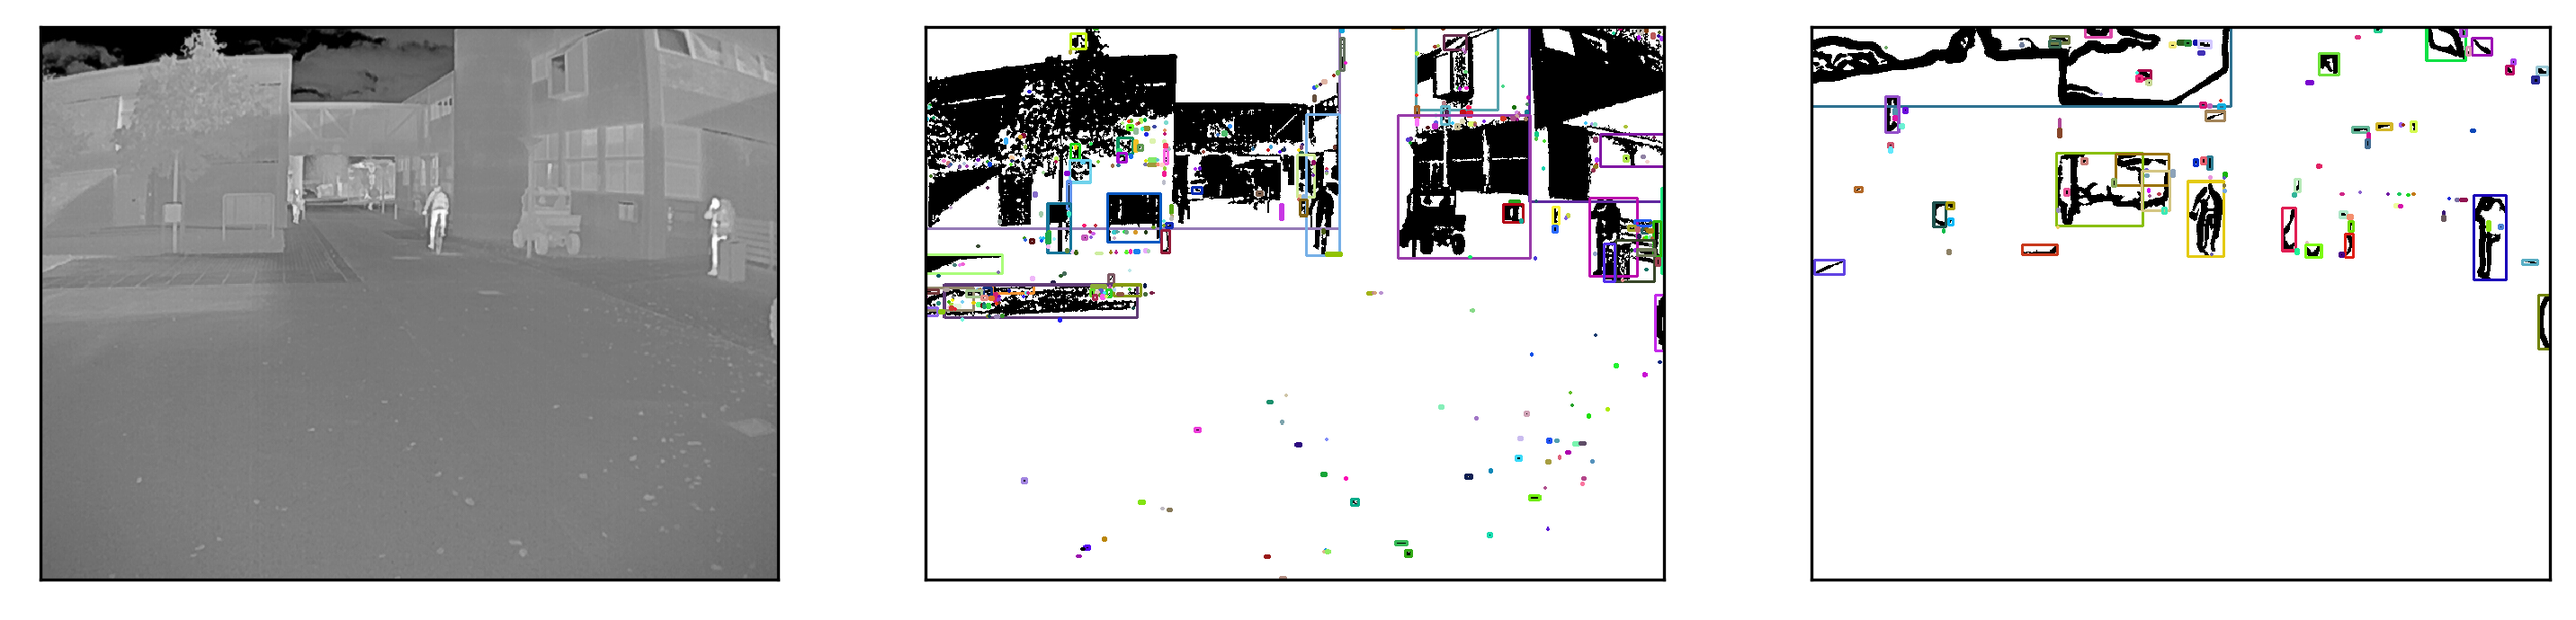
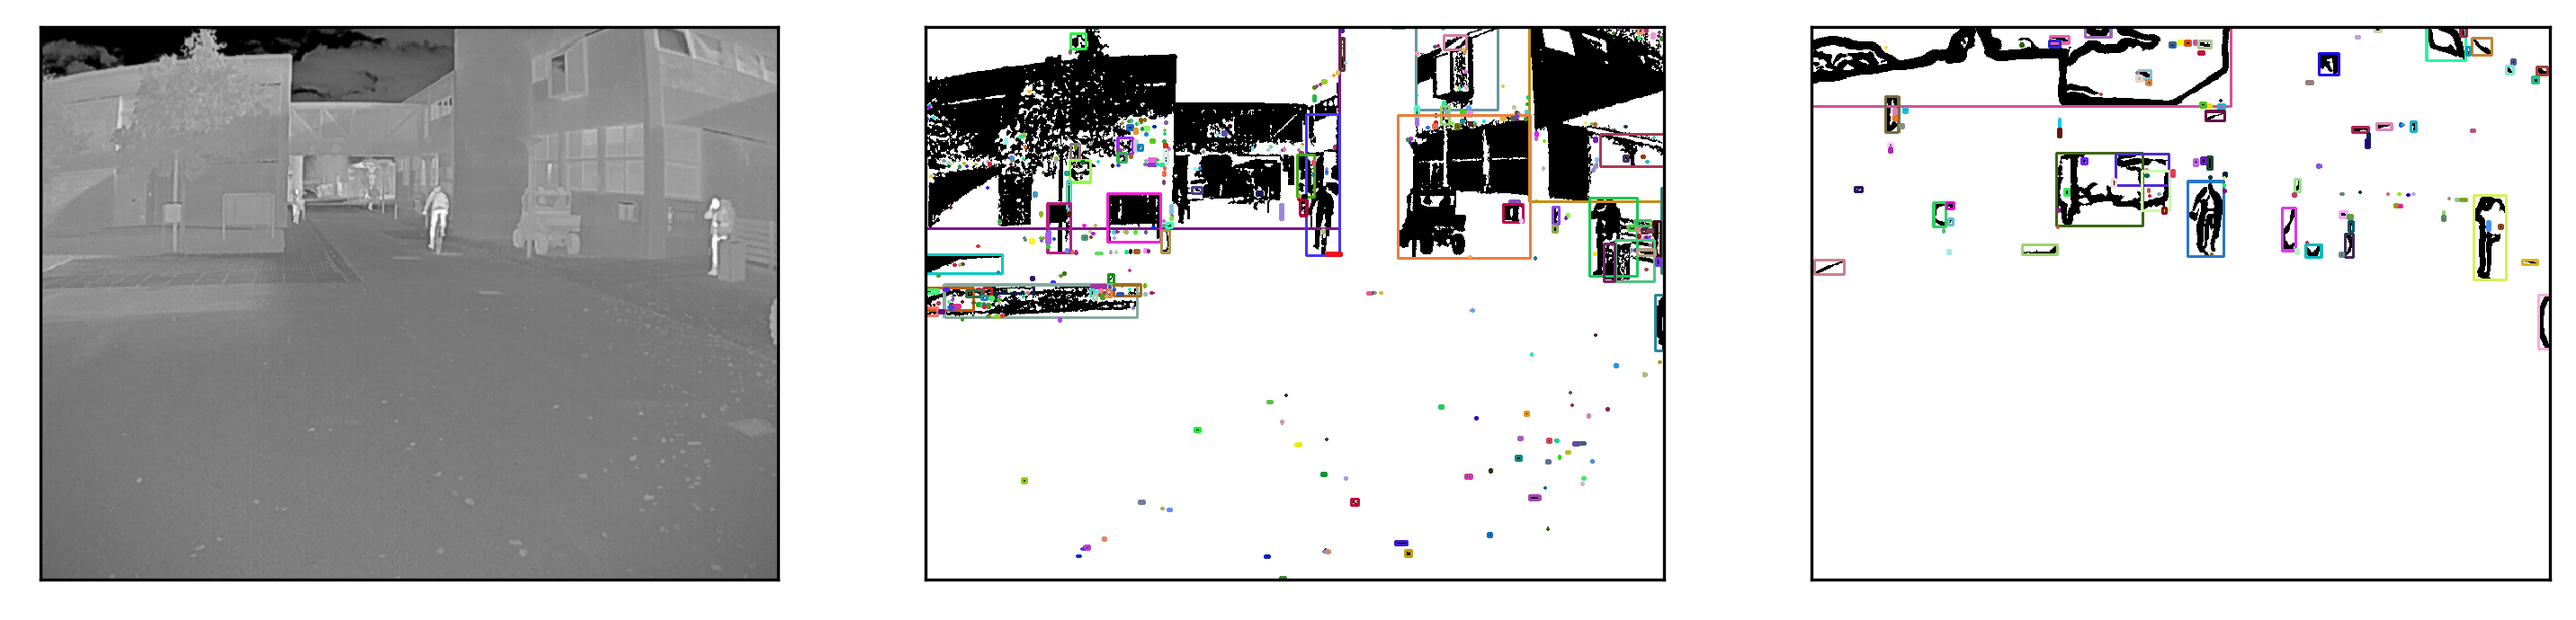
fixed confidence map errors & generate plots for illustration

diff --git a/catkin_ws/src/persondetection/include/utils/img_utils.py b/catkin_ws/src/persondetection/include/utils/img_utils.py
@@ -4,53 +4,64 @@ import cv2
 import numpy as np
 
 colors = {
-            'white':(255, 255, 255),
-            'black':(0,0,0),
-            'green':(0, 255, 0),
-            'blue':(0,255,255)
+		'white':(255, 255, 255),
+		'black':(0,0,0),
+		'green':(0, 255, 0),
+		'blue':(0,255,255)
 }
 
 ZED_h = 720
 ZED_w = 1280
+IR_h = 600
+IR_w = 800
+blank_zed_3D = np.zeros((ZED_h, ZED_w, 3))
+blank_ir_3D = np.zeros((IR_h, IR_w, 3))
+blank_zed_2D = np.zeros((ZED_h, ZED_w))
+blank_ir_2D = np.zeros((IR_h, IR_w))
+
+
+def plot_boxes_on_img(img,boxes):
+	res = img.copy()
+	for box in boxes:
+		x1,y1,x2,y2 = box
+		cv2.rectangle(res,(x1,y1),(x2,y2),color=colors['white'],thickness=2)
+	return res
+
 
 def angle_from_box(img,box):
-    h,w = img.shape[:2]
-    (xA, yA, xB, yB) = box
-    center_y, center_x = (h-(yA+(yB-yA)/2),(xA+(xB-xA)/2)-w/2)
-    if center_x == 0:
-        angle = 0
-    else: angle = np.round(np.rad2deg(np.arctan2(center_y,center_x))-90.0,decimals=1)
-    
-    return angle
-    
+	h,w = img.shape[:2]
+	(xA, yA, xB, yB) = box
+	center_y, center_x = (h-(yA+(yB-yA)/2),(xA+(xB-xA)/2)-w/2)
+	if center_x == 0:
+		angle = 0
+	else: angle = np.round(np.rad2deg(np.arctan2(center_y,center_x))-90.0,decimals=1)
+
+	return angle
+
+
 def plot_boxes(img, boxes, color='white'):
-	global colors
-	for box in boxes:	
+	for box in boxes:
 		(xA, yA, xB, yB) = box
 		angle = angle_from_box(img,box)
 		cv2.rectangle(img, (xA, yA), (xB, yB), colors[color], 5)
 		cv2.putText(img, str(angle), (xA, yA-10), cv2.FONT_HERSHEY_SIMPLEX, 0.9, colors[color], 2)
 	return img
 
+
 def plot_polygons(img, polygons, color='white'):
-	global colors
 	for polygon in polygons:
-		#print(polygon)
+		# print(polygon)
 		pts = np.int32(polygon).reshape((-1,1,2))
 		cv2.polylines(img,[pts],True,colors[color],5)
 	return img
+
 
 def downsample_image(img, desired_width):
 	h,w = img.shape[:2]
 	small_to_large_image_size_ratio = desired_width/w
 	img = cv2.resize(img,
-		       (0,0), # set fx and fy, not the final size
-		       fx=small_to_large_image_size_ratio,
-		       fy=small_to_large_image_size_ratio,
-		       interpolation=cv2.INTER_LINEAR)
-
+					(0,0),  # set fx and fy, not the final size
+					fx=small_to_large_image_size_ratio,
+					fy=small_to_large_image_size_ratio,
+					interpolation=cv2.INTER_LINEAR)
 	return img
-	
-
-
-	

diff --git a/catkin_ws/src/persondetection/src/testing/thresholding.py b/catkin_ws/src/persondetection/src/testing/thresholding.py
@@ -6,6 +6,10 @@ import matplotlib.pyplot as plt
 from random import Random
 
 from utils.boxes import *
+from utils.img_utils import *
+from utils.transformbox import get_boxes_zedframe
+
+SHOW_PLOTS = True
 
 folder = "src/persondetection/src/testing/"
 
@@ -202,8 +206,8 @@ def detect_connected_components(imgpath):
     # plt.show()
     plt.savefig(folder+"results/connectedcomp/"+imgpath.split("/")[-1], bbox_inches='tight')
 
-    boxes_class = [Box(cimg, xyxy=box) for box in boxes]
-    return cimg, boxes_class
+
+    return cimg, boxes
 
 def thresholding(imgpath):
     img = cv2.imread(imgpath)
@@ -260,16 +264,27 @@ def histo(imgpath):
     min_ylim, max_ylim = plt.ylim()
     plt.text(img.mean() * 1.1, max_ylim * 0.9, 'Mean: {:.2f}'.format(img.mean()))
 
-    plt.show()
+    if SHOW_PLOTS: plt.show()
     return img
 
 
 for imgpath in glob.glob(folder+"test_img/ircam*.png"):
     #thresholding(imgpath)
     print(imgpath)
-    cimg, boxes_class = detect_connected_components(imgpath)
-    map = makeConfidenceMapFromBoxes(cimg, boxes_class)
-    plt.figure(num=None)
+
+    cimg, boxes = detect_connected_components(imgpath)
+    boxes_zedframe = get_boxes_zedframe([Box(blank_ir_3D,xyxy=box,confidence=1) for box in boxes])
+    boxes_img = plot_boxes_on_img(blank_zed_3D,[box.xyxy for box in boxes_zedframe])
+    map = makeConfidenceMapFromBoxes(blank_zed_3D, boxes_zedframe)
+
+    images = [boxes_img, map]
+    plt.figure(num=None, figsize=(12, 4), dpi=300)
+
+    for i in range(len(images)):
+        plt.subplot(1, len(images), i + 1), plt.imshow(images[i], 'gray')
+        # plt.title(titles[i])
+        plt.xticks([]), plt.yticks([])
     plt.imshow(map)
-    plt.show()
+
+    if SHOW_PLOTS: plt.show()
     # histo(imgpath)

diff --git a/catkin_ws/src/persondetection/include/utils/transformbox.py b/catkin_ws/src/persondetection/include/utils/transformbox.py
@@ -4,7 +4,7 @@ import numpy as np
 import cv2
 import scipy.io
 
-from utils.img_utils import plot_polygons
+from utils.img_utils import *
 import os
 from utils.boxes import Box
 
@@ -29,7 +29,7 @@ def get_boxes_zedframe(boxes,tform=tf):
 		max_x = int(np.max([coord[0] for coord in box_warped[0]]))
 		max_y = int(np.max([coord[1] for coord in box_warped[0]]))
 		min_y = int(np.min([coord[1] for coord in box_warped[0]]))
-		newbox = Box(img=box.img, xyxy=[min_x,min_y,max_x,max_y], confidence=box.confidence)
+		newbox = Box(img=blank_zed_3D, xyxy=[min_x,min_y,max_x,max_y], confidence=None)
 		# box.transform(xyxy=[min_x,min_y,max_x,max_y])
 		boxes_tformed.append(newbox)
 		n += 1
